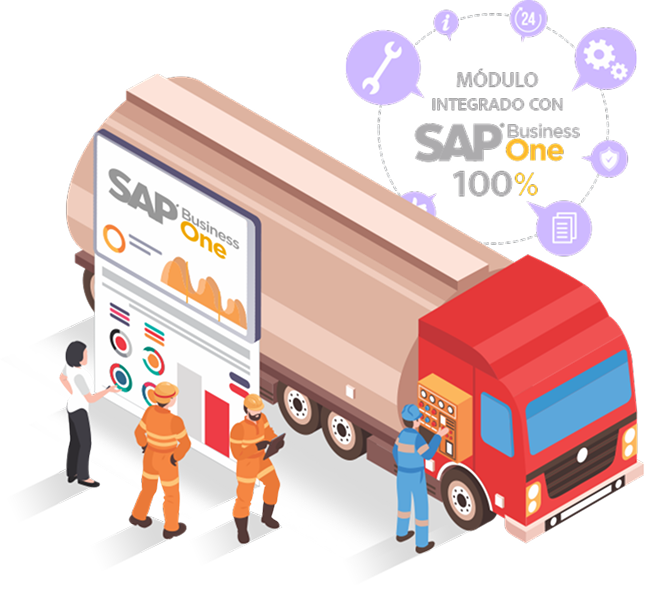
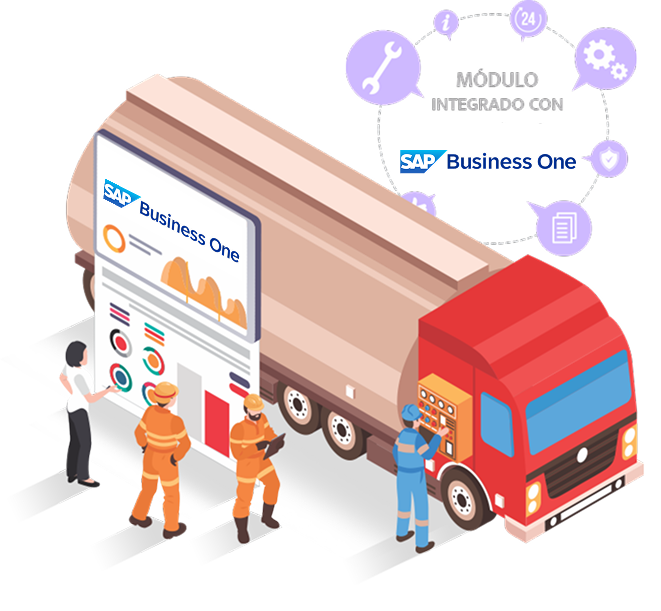
hero commit

Changed region(s): [[0.6051, 0.1866, 0.8775, 0.3421], [0.1513, 0.2799, 0.3631, 0.4354]]

diff --git a/app/page.tsx b/app/page.tsx
@@ -1,131 +1,11 @@
-import { DarkThemeToggle } from "flowbite-react";
-import Image from "next/image";
 import { Nav } from "./components/Navbar";
+import { Hero } from "./components/hero";
 
 export default function Home() {
-  const CARDS = [
-    {
-      title: "Flowbite React Docs",
-      description:
-        "Learn more on how to get started and use the Flowbite React components",
-      url: "https://flowbite-react.com/",
-      icon: (
-        <svg
-          className="h-9 w-9 text-gray-500"
-          xmlns="http://www.w3.org/2000/svg"
-          width="24"
-          height="24"
-          fill="none"
-          viewBox="0 0 24 24"
-        >
-          <path
-            stroke="currentColor"
-            strokeLinecap="round"
-            strokeLinejoin="round"
-            strokeWidth="1.5"
-            d="M12 6.03v13m0-13c-2.819-.831-4.715-1.076-8.029-1.023A.99.99 0 0 0 3 6v11c0 .563.466 1.014 1.03 1.007 3.122-.043 5.018.212 7.97 1.023m0-13c2.819-.831 4.715-1.076 8.029-1.023A.99.99 0 0 1 21 6v11c0 .563-.466 1.014-1.03 1.007-3.122-.043-5.018.212-7.97 1.023"
-          />
-        </svg>
-      ),
-    },
-    {
-      title: "Flowbite Blocks",
-      description:
-        "Get started with over 450 blocks to build websites even faster",
-      url: "https://flowbite.com/blocks/",
-      icon: (
-        <svg
-          className="h-9 w-9 text-gray-500"
-          xmlns="http://www.w3.org/2000/svg"
-          width="24"
-          height="24"
-          fill="none"
-          viewBox="0 0 24 24"
-        >
-          <path
-            stroke="currentColor"
-            strokeLinecap="round"
-            strokeLinejoin="round"
-            strokeWidth="1.5"
-            d="M9.143 4H4.857A.857.857 0 0 0 4 4.857v4.286c0 .473.384.857.857.857h4.286A.857.857 0 0 0 10 9.143V4.857A.857.857 0 0 0 9.143 4Zm10 0h-4.286a.857.857 0 0 0-.857.857v4.286c0 .473.384.857.857.857h4.286A.857.857 0 0 0 20 9.143V4.857A.857.857 0 0 0 19.143 4Zm-10 10H4.857a.857.857 0 0 0-.857.857v4.286c0 .473.384.857.857.857h4.286a.857.857 0 0 0 .857-.857v-4.286A.857.857 0 0 0 9.143 14Zm10 0h-4.286a.857.857 0 0 0-.857.857v4.286c0 .473.384.857.857.857h4.286a.857.857 0 0 0 .857-.857v-4.286a.857.857 0 0 0-.857-.857Z"
-          />
-        </svg>
-      ),
-    },
-    {
-      title: "Flowbite Icons",
-      description:
-        "Get started with over 650+ SVG free and open-source icons for your apps",
-      url: "https://flowbite.com/icons/",
-      icon: (
-        <svg
-          className="h-9 w-9 text-gray-500"
-          xmlns="http://www.w3.org/2000/svg"
-          width="24"
-          height="24"
-          fill="none"
-          viewBox="0 0 24 24"
-        >
-          <path
-            stroke="currentColor"
-            strokeLinecap="round"
-            strokeLinejoin="round"
-            strokeWidth="1.5"
-            d="M11 6.5h2M11 18h2m-7-5v-2m12 2v-2M5 8h2a1 1 0 0 0 1-1V5a1 1 0 0 0-1-1H5a1 1 0 0 0-1 1v2a1 1 0 0 0 1 1Zm0 12h2a1 1 0 0 0 1-1v-2a1 1 0 0 0-1-1H5a1 1 0 0 0-1 1v2a1 1 0 0 0 1 1Zm12 0h2a1 1 0 0 0 1-1v-2a1 1 0 0 0-1-1h-2a1 1 0 0 0-1 1v2a1 1 0 0 0 1 1Zm0-12h2a1 1 0 0 0 1-1V5a1 1 0 0 0-1-1h-2a1 1 0 0 0-1 1v2a1 1 0 0 0 1 1Z"
-          />
-        </svg>
-      ),
-    },
-    {
-      title: "Flowbite Illustrations",
-      description:
-        "Start using over 50+ SVG illustrations in 3D style to add character to your apps",
-      url: "https://flowbite.com/illustrations/",
-      icon: (
-        <svg
-          className="h-9 w-9 text-gray-500"
-          xmlns="http://www.w3.org/2000/svg"
-          width="24"
-          height="24"
-          fill="none"
-          viewBox="0 0 24 24"
-        >
-          <path
-            stroke="currentColor"
-            strokeLinecap="round"
-            strokeLinejoin="round"
-            strokeWidth="1.5"
-            d="m3 16 5-7 6 6.5m6.5 2.5L16 13l-4.286 6M14 10h.01M4 19h16a1 1 0 0 0 1-1V6a1 1 0 0 0-1-1H4a1 1 0 0 0-1 1v12a1 1 0 0 0 1 1Z"
-          />
-        </svg>
-      ),
-    },
-    {
-      title: "Flowbite Pro",
-      description:
-        "Upgrade your development stack with more components and templates from Flowbite",
-      url: "https://flowbite.com/pro/",
-      icon: (
-        <Image
-          alt="Flowbite Pro logo"
-          src="/flowbite.svg"
-          width={36}
-          height={36}
-        />
-      ),
-    },
-    {
-      title: "Flowbite Figma",
-      description:
-        "Use our Figma Design System to design and collaborate better within your team",
-      url: "https://flowbite.com/figma/",
-      icon: <Image alt="Figma logo" src="/figma.svg" width={36} height={36} />,
-    },
-  ];
-
   return (
     <main className="">
       <Nav />
+      <Hero />
     </main>
   );
 }

diff --git a/app/components/hero.jsx b/app/components/hero.jsx
@@ -1,0 +1,25 @@
+import { Button } from "flowbite-react";
+
+export function Hero() {
+  return (
+    <div className="my-10 flex items-center justify-center sm:flex-col md:flex-row">
+      <div className="flex w-1/2 flex-col items-center p-14 text-center">
+        <div className="py-10">
+          <h1 className="py-10 text-5xl font-semibold tracking-tight text-balance text-gray-900 sm:text-3xl">
+            Mantenimiento optimizado: correctivo, preventivo y predictivo en un
+            solo lugar.
+          </h1>
+          <p className="text-l font-medium text-pretty text-gray-500">
+            EAM One integra la gestión de mantenimiento con SAP Business One
+            para que planifiques y controles tus activos con trazabilidad total
+            y decisiones basadas en datos.
+          </p>
+        </div>
+        <Button>Solicitar demo</Button>
+      </div>
+      <div className="w-1/2">
+        <img src="eamoneHero.png" alt="image with logo inside" />
+      </div>
+    </div>
+  );
+}
